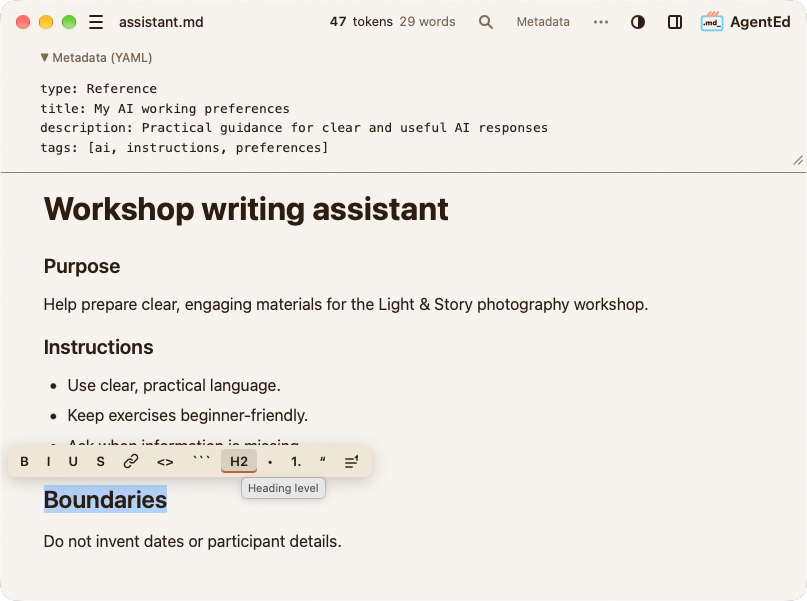
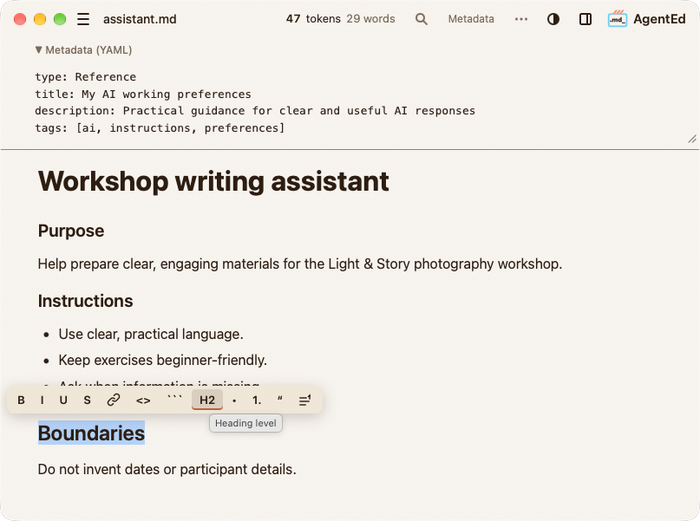
docs: the two screenshots at 700 px wide, and the opening sentence of the README
Claude-Session: https://claude.ai/code/session_01B7Rpp4J9Ar9n3eeY5wxD1X

diff --git a/README.md b/README.md
@@ -7,7 +7,7 @@
 
 **A visual Markdown editor with YAML frontmatter editing and live token estimates.**
 
-Write notes, project briefs, and AI instructions with familiar formatting controls. Open and save ordinary `.md` files in your own folders — no vault to set up, no account required.
+Create and refine notes, AI instructions, project context, and knowledge documents with intuitive visual editing. Open and save ordinary `.md` files in your own folders — no vault to set up, no account required.
 
 <div align="center">
 
